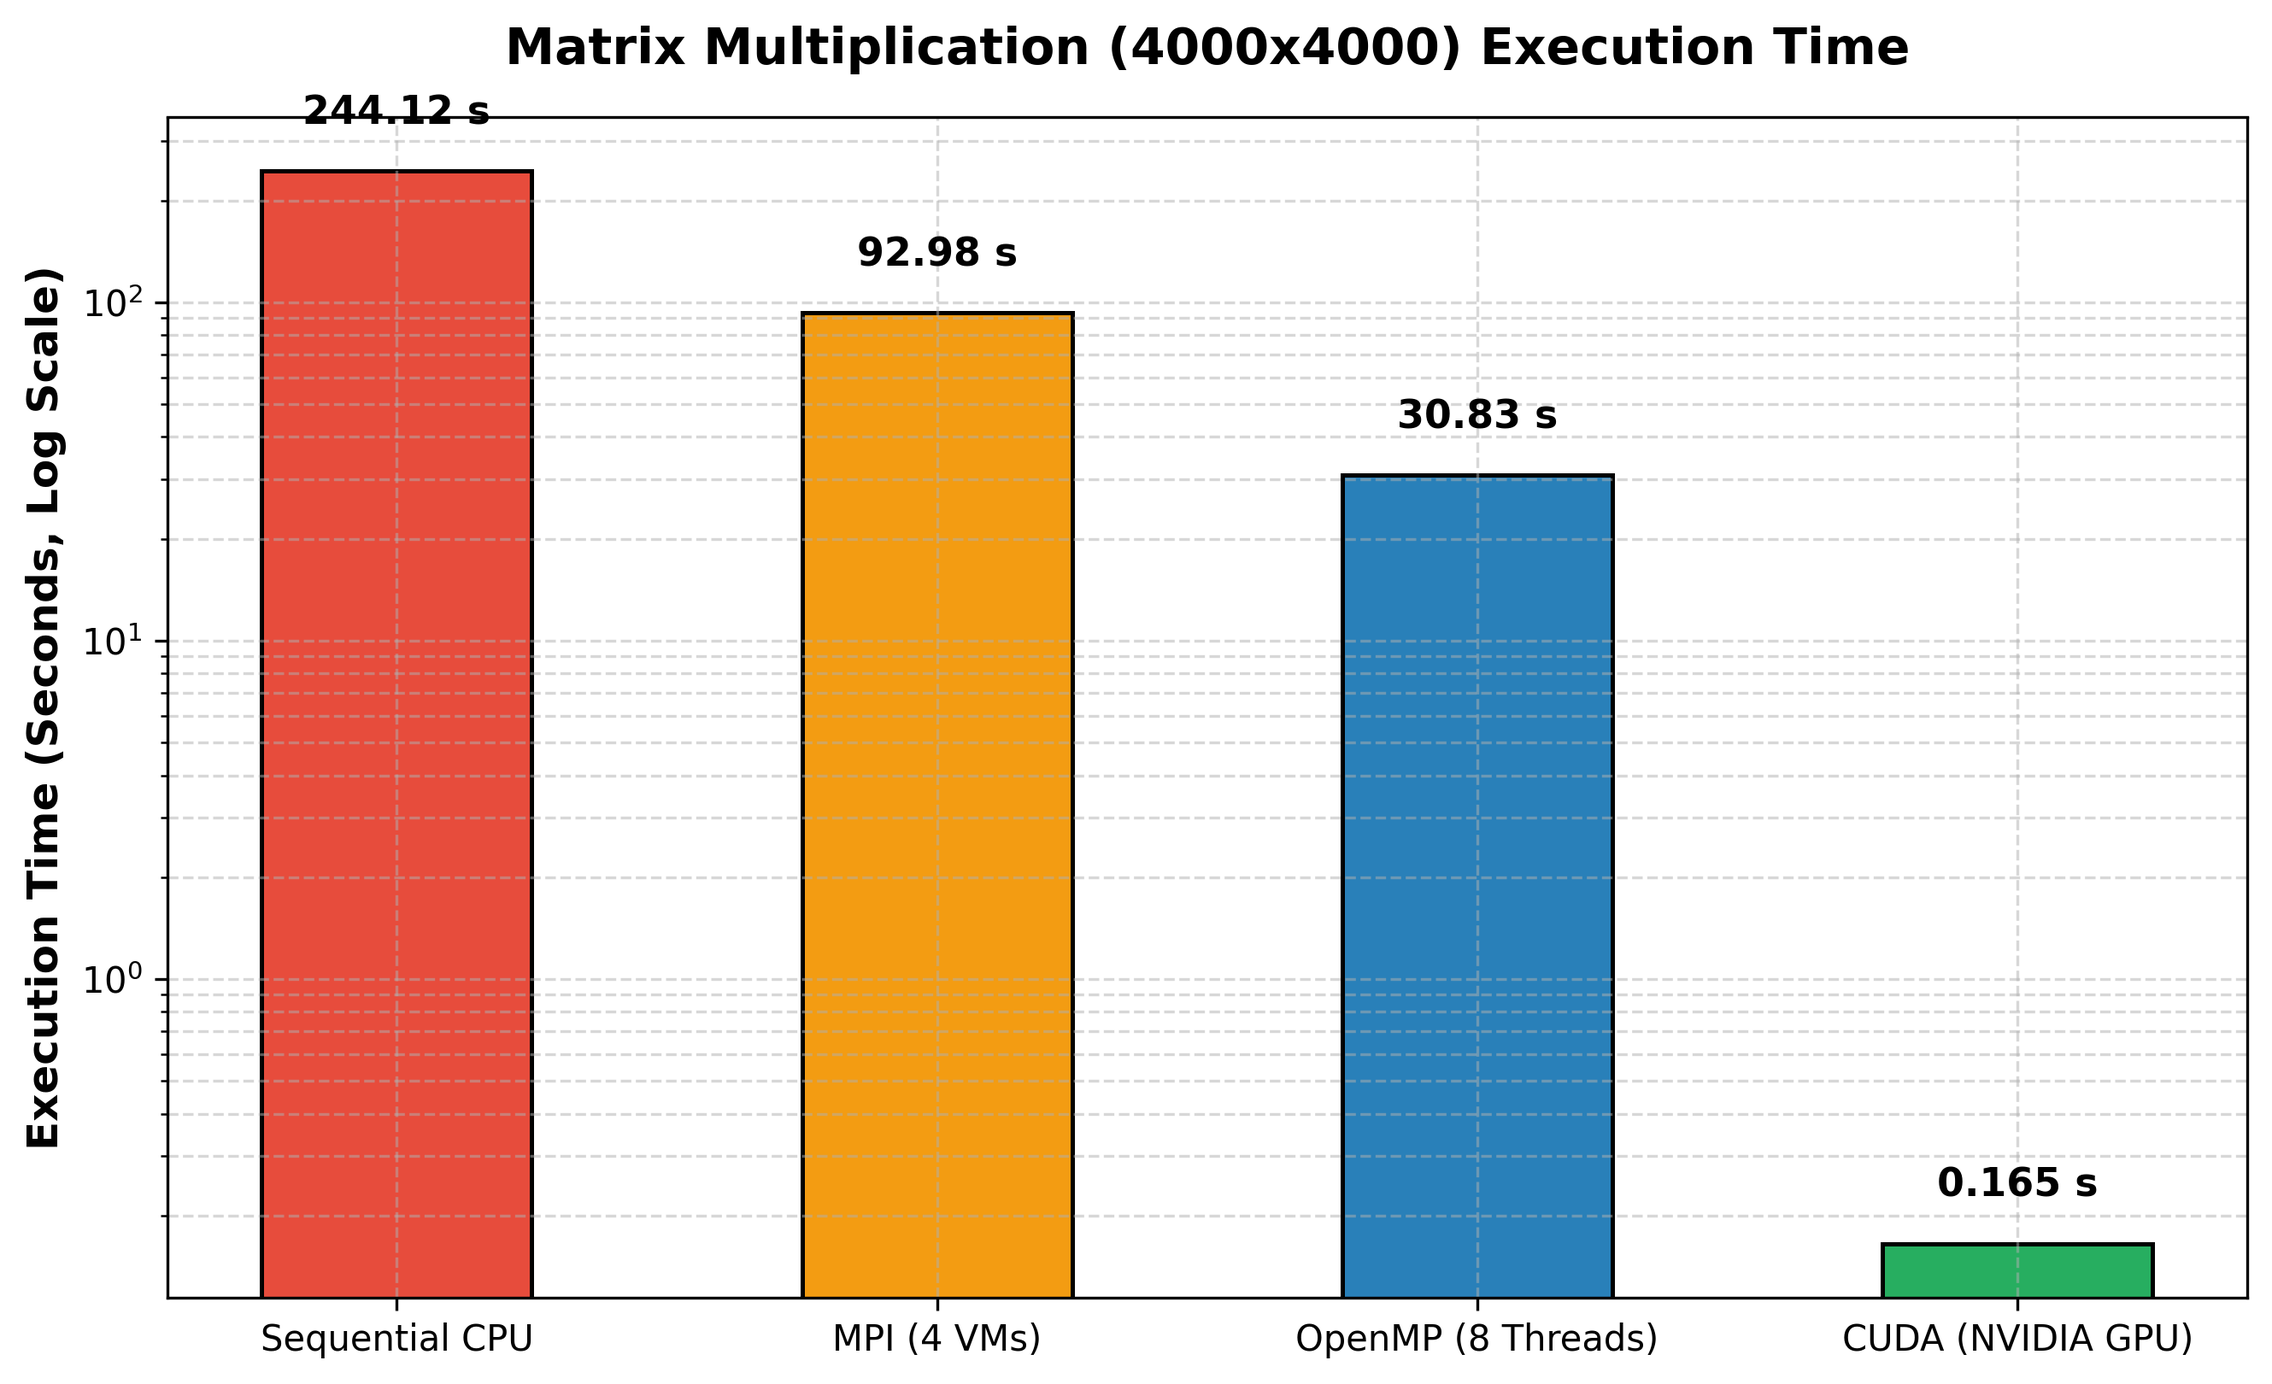
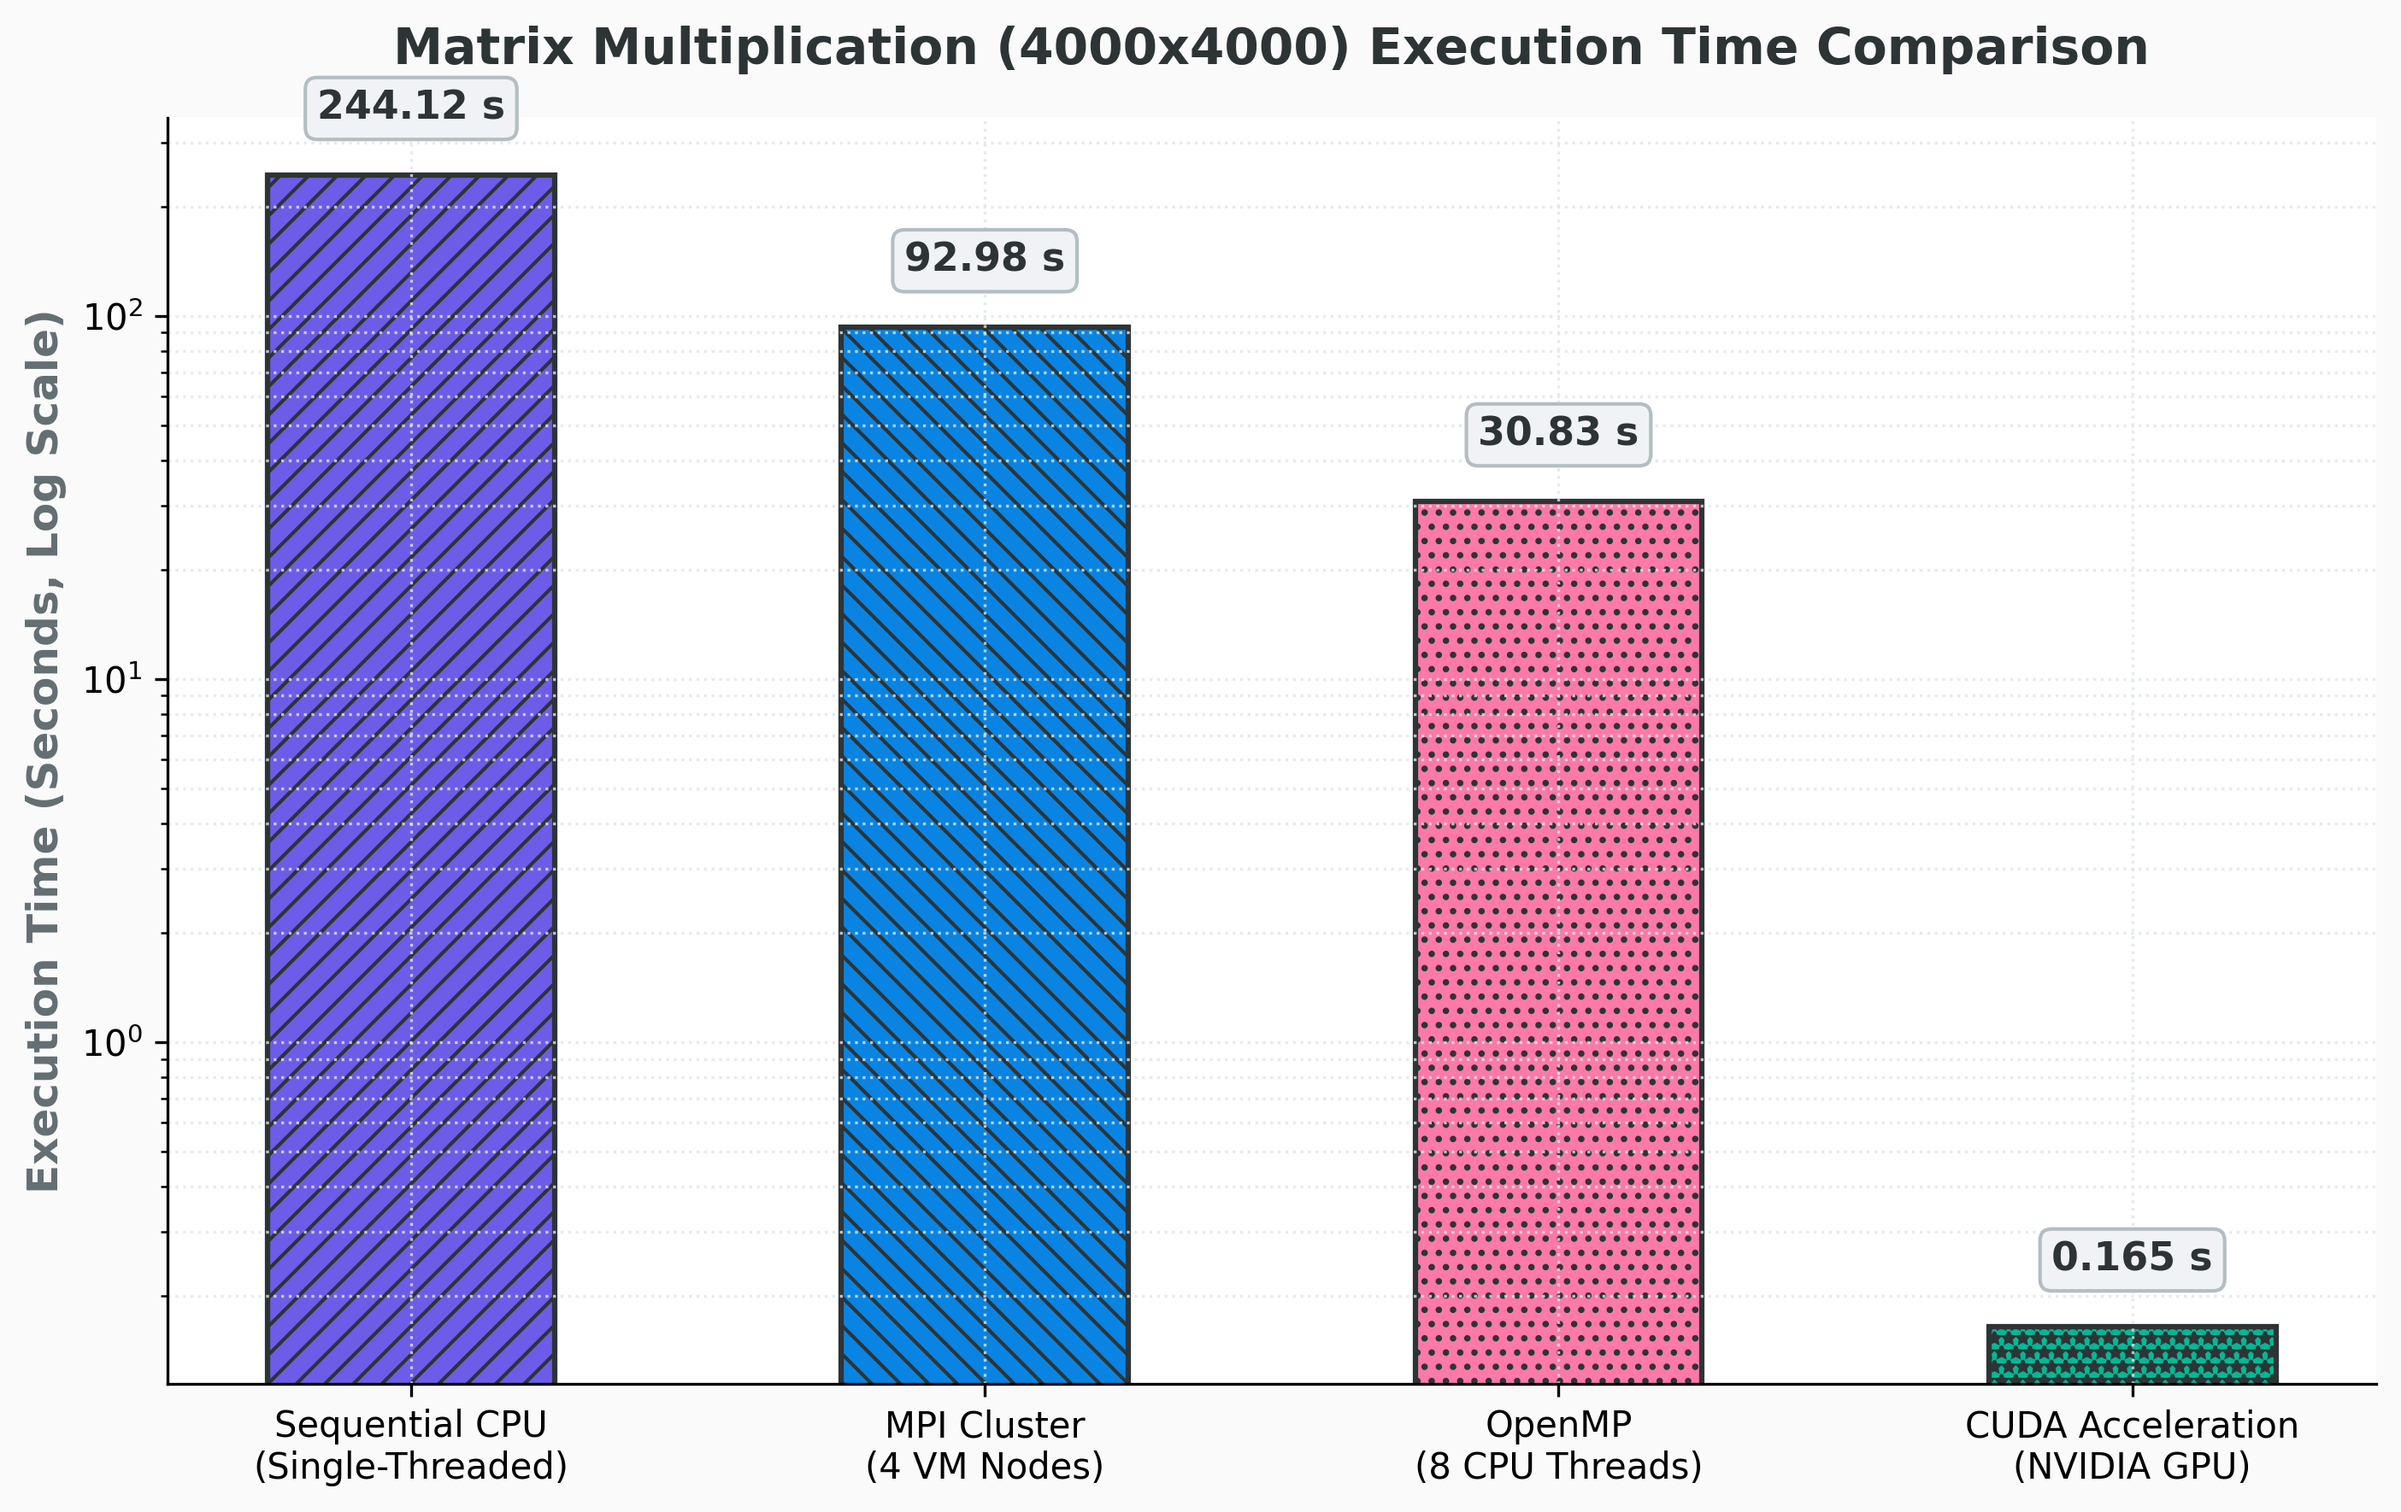
Apply custom vibrant theme, distinct color palette, and textures to performance charts

diff --git a/scripts/generate_charts.py b/scripts/generate_charts.py
@@ -4,72 +4,112 @@ import numpy as np
 
 os.makedirs('images', exist_ok=True)
 
-models = ['Sequential CPU', 'MPI (4 VMs)', 'OpenMP (8 Threads)', 'CUDA (NVIDIA GPU)']
+# Custom typography & theme settings
+plt.rcParams['font.family'] = 'sans-serif'
+plt.rcParams['font.sans-serif'] = ['DejaVu Sans', 'Segoe UI', 'Arial']
+
+models = ['Sequential CPU\n(Single-Threaded)', 'MPI Cluster\n(4 VM Nodes)', 'OpenMP\n(8 CPU Threads)', 'CUDA Acceleration\n(NVIDIA GPU)']
 times = [244.12, 92.98, 30.83, 0.165]
 speedups = [1.0, 2.63, 7.92, 1479.48]
-colors = ['#e74c3c', '#f39c12', '#2980b9', '#27ae60']
 
-# 1. Combined Chart
-fig, (ax1, ax2) = plt.subplots(1, 2, figsize=(14, 6))
+# Distinct modern color palette & hatching patterns
+colors = ['#6C5CE7', '#0984E3', '#FD79A8', '#00B894']
+hatches = ['///', '\\\\\\', '...', '***']
 
-bars1 = ax1.bar(models, times, color=colors, width=0.55, edgecolor='black', linewidth=1.2)
+# 1. Combined Performance Chart
+fig, (ax1, ax2) = plt.subplots(1, 2, figsize=(15, 6.5), facecolor='#FAFAFA')
+
+bars1 = ax1.bar(models, times, color=colors, width=0.52, edgecolor='#2D3436', linewidth=1.5)
+for bar, hatch in zip(bars1, hatches):
+    bar.set_hatch(hatch)
+
 ax1.set_yscale('log')
-ax1.set_title('Execution Time Comparison (Log Scale)', fontsize=14, fontweight='bold', pad=15)
-ax1.set_ylabel('Execution Time (Seconds)', fontsize=12, fontweight='bold')
-ax1.grid(True, which='both', linestyle='--', alpha=0.5)
+ax1.set_title('Benchmark Execution Time (Log Scale)', fontsize=14, fontweight='bold', color='#2D3436', pad=15)
+ax1.set_ylabel('Execution Time in Seconds (Lower is Better)', fontsize=11, fontweight='bold', color='#636E72')
+ax1.grid(True, which='both', linestyle=':', color='#DFE6E9', alpha=0.8)
+ax1.set_facecolor('#FFFFFF')
+ax1.spines['top'].set_visible(False)
+ax1.spines['right'].set_visible(False)
 
 for bar, time in zip(bars1, times):
     yval = bar.get_height()
-    ax1.text(bar.get_x() + bar.get_width()/2.0, yval * 1.3, f'{time:.2f}s' if time >= 1 else f'{time:.3f}s', 
-             ha='center', va='bottom', fontsize=11, fontweight='bold')
+    label = f'{time:.2f} s' if time >= 1 else f'{time:.3f} s'
+    ax1.text(bar.get_x() + bar.get_width()/2.0, yval * 1.4, label, 
+             ha='center', va='bottom', fontsize=10.5, fontweight='bold', color='#2D3436',
+             bbox=dict(boxstyle='round,pad=0.3', fc='#F1F2F6', ec='#B2BEC3', lw=1))
 
-bars2 = ax2.bar(models, speedups, color=colors, width=0.55, edgecolor='black', linewidth=1.2)
+bars2 = ax2.bar(models, speedups, color=colors, width=0.52, edgecolor='#2D3436', linewidth=1.5)
+for bar, hatch in zip(bars2, hatches):
+    bar.set_hatch(hatch)
+
 ax2.set_yscale('log')
-ax2.set_title('Speedup relative to Sequential Baseline', fontsize=14, fontweight='bold', pad=15)
-ax2.set_ylabel('Speedup Factor (x)', fontsize=12, fontweight='bold')
-ax2.grid(True, which='both', linestyle='--', alpha=0.5)
+ax2.set_title('Parallel Speedup Factor (Log Scale)', fontsize=14, fontweight='bold', color='#2D3436', pad=15)
+ax2.set_ylabel('Speedup Ratio vs. Sequential (Higher is Better)', fontsize=11, fontweight='bold', color='#636E72')
+ax2.grid(True, which='both', linestyle=':', color='#DFE6E9', alpha=0.8)
+ax2.set_facecolor('#FFFFFF')
+ax2.spines['top'].set_visible(False)
+ax2.spines['right'].set_visible(False)
 
 for bar, speedup in zip(bars2, speedups):
     yval = bar.get_height()
-    ax2.text(bar.get_x() + bar.get_width()/2.0, yval * 1.3, f'{speedup:.2f}x', 
-             ha='center', va='bottom', fontsize=11, fontweight='bold')
+    label = f'{speedup:.2f}x'
+    ax2.text(bar.get_x() + bar.get_width()/2.0, yval * 1.4, label, 
+             ha='center', va='bottom', fontsize=10.5, fontweight='bold', color='#2D3436',
+             bbox=dict(boxstyle='round,pad=0.3', fc='#F1F2F6', ec='#B2BEC3', lw=1))
 
+plt.suptitle('Parallel & GPU Computing Lab — Experiment 1 Performance Analysis', fontsize=16, fontweight='bold', color='#2D3436', y=1.02)
 plt.tight_layout()
 plt.savefig('images/performance_comparison_charts.png', dpi=300, bbox_inches='tight')
 plt.close()
 
 # 2. Standalone Execution Time Chart
-fig, ax = plt.subplots(figsize=(9, 5.5))
-bars = ax.bar(models, times, color=colors, width=0.5, edgecolor='black', linewidth=1.2)
+fig, ax = plt.subplots(figsize=(9.5, 6), facecolor='#FAFAFA')
+bars = ax.bar(models, times, color=colors, width=0.5, edgecolor='#2D3436', linewidth=1.5)
+for bar, hatch in zip(bars, hatches):
+    bar.set_hatch(hatch)
+
 ax.set_yscale('log')
-ax.set_title('Matrix Multiplication (4000x4000) Execution Time', fontsize=14, fontweight='bold', pad=15)
-ax.set_ylabel('Execution Time (Seconds, Log Scale)', fontsize=12, fontweight='bold')
-ax.grid(True, which='both', linestyle='--', alpha=0.5)
+ax.set_title('Matrix Multiplication (4000x4000) Execution Time Comparison', fontsize=14, fontweight='bold', color='#2D3436', pad=15)
+ax.set_ylabel('Execution Time (Seconds, Log Scale)', fontsize=12, fontweight='bold', color='#636E72')
+ax.grid(True, which='both', linestyle=':', color='#DFE6E9', alpha=0.8)
+ax.set_facecolor('#FFFFFF')
+ax.spines['top'].set_visible(False)
+ax.spines['right'].set_visible(False)
 
 for bar, time in zip(bars, times):
     yval = bar.get_height()
     label = f'{time:.2f} s' if time >= 1 else f'{time:.3f} s'
-    ax.text(bar.get_x() + bar.get_width()/2.0, yval * 1.3, label, ha='center', va='bottom', fontsize=11, fontweight='bold')
+    ax.text(bar.get_x() + bar.get_width()/2.0, yval * 1.35, label, 
+            ha='center', va='bottom', fontsize=11, fontweight='bold', color='#2D3436',
+            bbox=dict(boxstyle='round,pad=0.3', fc='#F1F2F6', ec='#B2BEC3', lw=1))
 
 plt.tight_layout()
 plt.savefig('images/execution_time_chart.png', dpi=300, bbox_inches='tight')
 plt.close()
 
 # 3. Standalone Speedup Chart
-fig, ax = plt.subplots(figsize=(9, 5.5))
-bars = ax.bar(models, speedups, color=colors, width=0.5, edgecolor='black', linewidth=1.2)
+fig, ax = plt.subplots(figsize=(9.5, 6), facecolor='#FAFAFA')
+bars = ax.bar(models, speedups, color=colors, width=0.5, edgecolor='#2D3436', linewidth=1.5)
+for bar, hatch in zip(bars, hatches):
+    bar.set_hatch(hatch)
+
 ax.set_yscale('log')
-ax.set_title('Parallel Speedup vs. Sequential Baseline', fontsize=14, fontweight='bold', pad=15)
-ax.set_ylabel('Speedup Factor (x, Log Scale)', fontsize=12, fontweight='bold')
-ax.grid(True, which='both', linestyle='--', alpha=0.5)
+ax.set_title('Parallel Speedup Factor relative to Sequential Baseline', fontsize=14, fontweight='bold', color='#2D3436', pad=15)
+ax.set_ylabel('Speedup Factor (x, Log Scale)', fontsize=12, fontweight='bold', color='#636E72')
+ax.grid(True, which='both', linestyle=':', color='#DFE6E9', alpha=0.8)
+ax.set_facecolor('#FFFFFF')
+ax.spines['top'].set_visible(False)
+ax.spines['right'].set_visible(False)
 
 for bar, speedup in zip(bars, speedups):
     yval = bar.get_height()
     label = f'{speedup:.2f}x'
-    ax.text(bar.get_x() + bar.get_width()/2.0, yval * 1.3, label, ha='center', va='bottom', fontsize=11, fontweight='bold')
+    ax.text(bar.get_x() + bar.get_width()/2.0, yval * 1.35, label, 
+            ha='center', va='bottom', fontsize=11, fontweight='bold', color='#2D3436',
+            bbox=dict(boxstyle='round,pad=0.3', fc='#F1F2F6', ec='#B2BEC3', lw=1))
 
 plt.tight_layout()
 plt.savefig('images/speedup_chart.png', dpi=300, bbox_inches='tight')
 plt.close()
 
-print('Charts regenerated successfully.')
+print('Charts regenerated successfully with unique custom palette & styling.')
